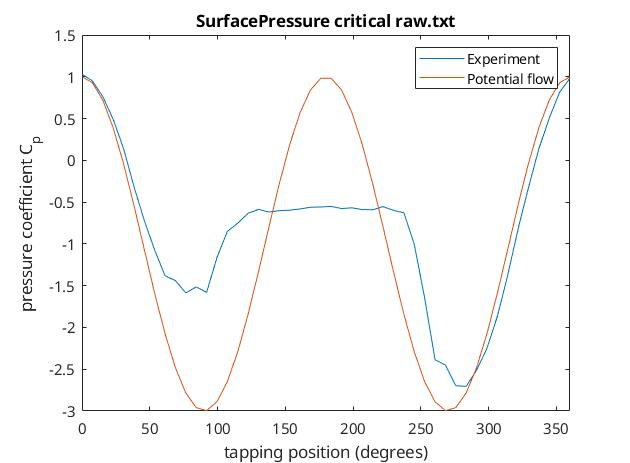
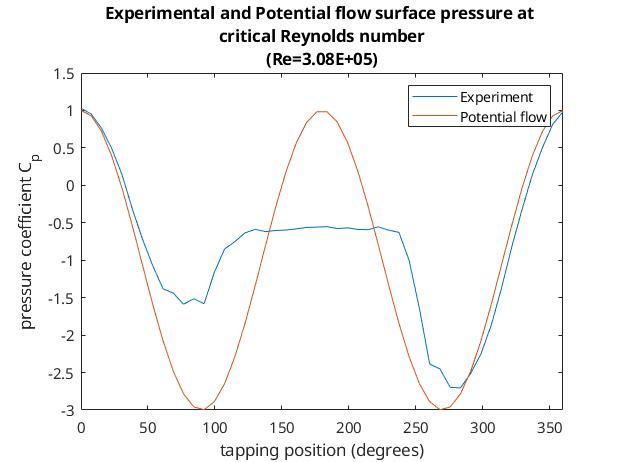
more work

diff --git a/surface_pressure_script.m b/surface_pressure_script.m
@@ -20,7 +20,7 @@ for i=1:1:length(file_list)
     %create absolute file path from file name and directory
     file_path=append("data/semester_1(wave_survey)/"+file_list(i).name);
     
-    
+    disp(file_list(i).name);
     %read in data from file 
     data=tdfread(file_path);
 
@@ -45,8 +45,43 @@ for i=1:1:length(file_list)
     %calculate values for C_p
     C_p_values=(surface_pressure)./(dynamic_pressure);
     
-    potential_flow_C_p=1-4*(sin(deg2rad(theta_values))).^2;
+    potential_flow_C_p=1-4*(sind(theta_values)).^2;
     
+    pressure=data.Barometric_Pressure(2:end,:);
+    T=data.Temperature(2:end,:);
+    
+    pressure=str2num(pressure)';
+    T=str2num(T)';
+    
+    pressure=(pressure./0.0222222)+600;
+    pressure=pressure.*133.322;
+    
+    T=T/0.1;
+    T_average=mean(T);
+    T=T+273;
+    
+    
+    R=287;
+    
+    density=(pressure)./(R.*T);
+    
+    density_average=mean(density);
+    
+    U=mean(sqrt((2*dynamic_pressure)./(density_average)));
+    
+    d=0.16;
+    
+    if (i==1 || i==2)
+        mu=1.802*10^-5;
+    else
+        mu=1.849*10^-5;
+    
+    end
+    Re=(density_average*U*d/mu);
+    
+    
+    
+    %{
     figure(i)
     plot(theta_values,C_p_values);
     hold on
@@ -55,20 +90,30 @@ for i=1:1:length(file_list)
     xlim([0,360]);
     xlabel("tapping position (degrees)");
     ylabel("pressure coefficient C_p");
-    legend({'Experiment','Potential flow'})
-    title(strrep(file_list(i).name,"_"," "));
-    
+    legend({'Experiment','Potential flow'},"Location","northeast")
+    f_name=strrep(file_list(i).name,"_"," ");
+    Re_format=sprintf("(Re=%0.2E)",Re);
+    title(f_name+" "+Re_format);
+    %}
     %Calculate lift and drag coefficients from C_p and potiential flow...
     
-    %Coefficient of Dynamic pressure
-    C_D_p_values=C_p_values.*sin(deg2rad(theta_values));
+    %Coefficient of Dynamic pressure experiment
+    C_D_p_values=C_p_values.*cosd(theta_values);
     C_D_p=0.5*trapz(theta_values,C_D_p_values);
     
+    %Coefficient of Dynamic pressure potential
+    potential_flow_C_D_p_values=potential_flow_C_p.*cosd(theta_values);
+    potential_flow_C_D_p=0.5*trapz(theta_values,potential_flow_C_D_p_values);
+    
     %Coefficient of Dynamic pressure
-    C_L_values=C_p_values.*cos(deg2rad(theta_values));
+    C_L_values=C_p_values.*sind(theta_values);
     C_L=-0.5*trapz(theta_values,C_L_values);
     
-    fprintf("%s \n C_D_p=%f\n C_L=%f\n",file_list(i).name,C_D_p,C_L);
+    %Coefficient of Dynamic pressure potential
+    potential_flow_C_L_values=potential_flow_C_p.*sind(theta_values);
+    potential_flow_C_L=-0.5*trapz(theta_values,potential_flow_C_L_values);
+    
+    fprintf("%s \n Experiment:\n C_D_p=%f\n C_L=%f\n Potential: C_D_p=%f\n C_L=%f\n",file_list(i).name,C_D_p,C_L,potential_flow_C_D_p,potential_flow_C_L);
     
 end
     

diff --git a/Flow_over_cylinder_caleb.m b/Flow_over_cylinder_caleb.m
@@ -1,0 +1,69 @@
+% Calculating the pressure coefficient along the circumference of a
+% cylinder
+
+clear
+clc
+
+crt = readmatrix('data/semester_1(wave_survey)/SurfacePressure_critical_raw.txt');
+subcrt = readmatrix('data/semester_1(wave_survey)/SurfacePressure_subcritical_raw.txt');
+supcrt = readmatrix('data/semester_1(wave_survey)/SurfacePressure_supercritical_raw.txt');
+
+% Establishing variables and conerting to suitable units, Pascals
+%
+% Critical Reynolds number
+P_surf_crt = ((crt(:,2))./(7.07)).*6894.76;
+P_dynm_crt = ((crt(:,3))./(0.0255)).*9.81;
+
+% Subcritical Reynolds number+
+P_surf_subcrt = ((subcrt(:,2))./(7.07)).*6894.76;
+P_dynm_subcrt = ((subcrt(:,3))./(0.0255)).*9.81;
+
+% Supercritical Reynolds number
+P_surf_supcrt = ((supcrt(:,2))./(7.07)).*6894.76;
+P_dynm_supcrt = ((supcrt(:,3))./(0.0255)).*9.81;
+
+
+% Calculating pressure coefficients at different Reynolds number
+%
+% Critical Reynolds number
+Cp_crt = (P_surf_crt)./(P_dynm_crt);
+
+% Subcritical Reynolds number
+Cp_subcrt = (P_surf_subcrt)./(P_dynm_subcrt);
+
+% Supercritical Reynolds number
+Cp_supcrt = (P_surf_supcrt)./(P_dynm_supcrt);
+
+% Potential flow over a cylinder
+theta = (0:(360/47):360)';
+Cp_pot = (1-4*(sind(theta)).^2)';
+
+% Plotting Cp around the cylinder
+figure(1);
+plot(theta,Cp_crt,'-bo','Displayname','Critical');
+title('Pressure Coefficient around a cylinder');
+xlabel('Position on cylinder (rad)');
+ylabel('Pressure Coefficeint, Cp');
+hold on
+plot(theta,Cp_subcrt,'-go','Displayname','Subcritical');
+plot(theta,Cp_supcrt,'-ro','Displayname','Supecritical');
+plot(theta,Cp_pot,'-mo','Displayname','Potential Flow');
+hold off
+
+% Calculating coefficents of lift and drag around the cylinder
+Cl_crt = (0.5).*(Cp_crt).*(cosd(theta+360/47)-cosd(theta));
+Cl_subcrt = (0.5).*(Cp_subcrt).*(cosd(theta+360/47)-cosd(theta));
+Cl_supcrt = (0.5).*(Cp_supcrt).*(cosd(theta+360/47)-cosd(theta));
+
+Cd_crt = (-0.5).*(Cp_crt).*(sind(theta+360/47)-sind(theta));
+Cd_subcrt = (-0.5).*(Cp_subcrt).*(sind(theta+360/47)-sind(theta));
+Cd_supcrt = (-0.5).*(Cp_supcrt).*(sind(theta+360/47)-sind(theta));
+
+% Calculating air density 
+% 
+% Critical
+p_crt = (crt(:,6).*(133.32))./(0.0222222)+600;
+T_crt = (crt(:,5)./(0.1)) + 273.15;
+rho_crt = (p_crt)./(T_crt.*287.05);
+
+%plot(theta,Cl_crt);

diff --git a/wave_survey.m b/wave_survey.m
@@ -13,7 +13,7 @@ for i=1:1:length(file_list)
     
     %create absolute file path from file name and directory
     file_path=append("data/semester_1(wave_survey)/"+file_list(i).name);
-
+    disp(file_list(i).name);
     data=tdfread(file_path);
 
     %change variable names and remove first element in array
@@ -49,18 +49,56 @@ for i=1:1:length(file_list)
     
     wake_velocity=sqrt((wake_dynamic_pressure)./(dynamic_pressure));
     
-    wake_momentum_deficit_parameter=wake_velocity.*(1-wake_velocity);
+    adjusted_wake_velocity=sqrt((wake_dynamic_pressure+wake_static_pressure-static_pressure)./(dynamic_pressure));
     
+    %wake_momentum_deficit_parameter=wake_velocity.*(1-wake_velocity);
+    
+    %Reynolds number 
+    pressure=data.Barometric_Pressure(2:end,:);
+    T=data.Temperature(2:end,:);
+    
+    pressure=str2num(pressure)';
+    T=str2num(T)';
+    
+    pressure=(pressure./0.0222222)+600;
+    pressure=pressure.*133.322;
+    
+    T=T/0.1;
+    T_average=mean(T);
+    T=T+273;
+    
+    
+    R=287;
+    
+    density=(pressure)./(R.*T);
+    
+    density_average=mean(density);
+    
+    U=mean(sqrt((2*dynamic_pressure)./(density_average)));
+    
+    d=0.16;
+    
+    if (i==1 || i==2)
+        mu=1.802*10^-5;
+    else
+        mu=1.849*10^-5;
+    
+    end
+    Re=(density_average*U*d/mu)
+    
+    %{
     figure(i)
     plot(position,wake_velocity);
-    %hold on
-    %plot(position,wake_momentum_deficit_parameter)
-    %hold off
+    hold on
+    plot(position,adjusted_wake_velocity)
+    hold off
     xlim([-400,400]);
     xlabel("wake position (mm)");
-    ylabel("wave velocity u/U");
-    legend({"measured u","adusted wake velocity u'"});
-    title(strrep(file_list(i).name,"_"," "));
-    
+    ylabel("wake velocity u/U");
+    legend({"measured u","adusted wake velocity u'"},"Location","southeast");
+    f_name=strrep(file_list(i).name,"_"," ");
+    Re_format=sprintf("(Re=%0.2E)",Re);
+    title(f_name+" "+Re_format);
+    %}
     
 end

diff --git a/Deltawing.m b/Deltawing.m
@@ -23,12 +23,45 @@ drag_off=data_off.Fx_D_.*cos(deg2rad(data_off.Incidence));
 lift=lift_on-lift_off;
 drag=drag_on-drag_off;
 
+AoA=data_on.Incidence;
+
+%delta wing area calculations
+
+c=0.8;
+b=2*c*tand(30);
+s=0.5*b*c;
+
+%Mean aerodynamic chord calculation
+
+MAC=((b)/(s))*(((b^2)/(4))-((sqrt(3)*c*b)/(2))+(c^2));
+
+%calculate density
+
+R=287;
+
+T=data_on.Air_Temp__C_+273;
+
+P=data_on.Baro_P_Pa_;
+
+density=(P)./(R.*T);
+
+air_velocity=data_on.WindSpeed_m_s_;
+
+%calculate C_L and C_D
+
+C_L=(lift)./(0.5.*density.*(air_velocity.^2).*s);
+
+C_D=(drag)./(0.5.*density.*(air_velocity.^2).*s);
+
 figure(1);
-plot(data_on.Incidence,lift);
+plot(AoA,C_L);
 legend("lift (N)","Location","southeast");
 xlim([0,34]);
+title("Lift force against angle of attack Delta wing");
 figure(2);
-plot(data_on.Incidence,drag);
-ylim([0,max(drag)*1.2]);
-xlim([0,34]);
+plot(AoA,C_D);
 legend("drag (N)","Location","southeast");
+xlim([0,34]);
+title("Drag force against angle of attack Delta wing");
+ylim([0,0.1]);
+
